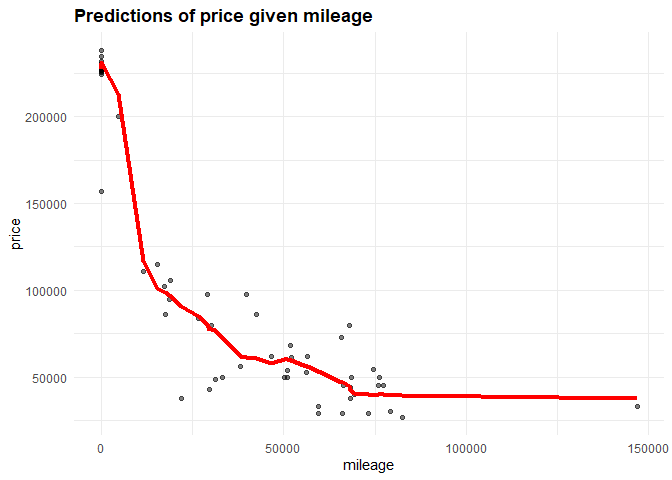
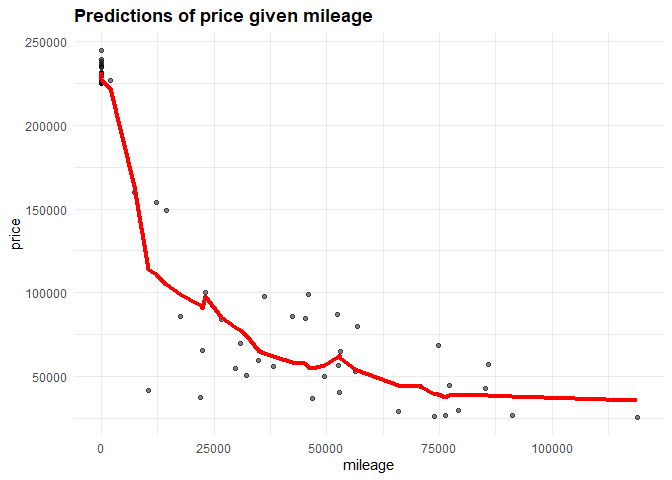
Exercise 11

diff --git a/Exercise 1/Chia-Sheng-Tu---Date-Mining---1.md b/Exercise 1/Chia-Sheng-Tu---Date-Mining---1.md
@@ -16,9 +16,17 @@ to minimize delays?\*\*
 
 ![](Chia-Sheng-Tu---Date-Mining---1_files/figure-markdown_strict/problem%201-1.png)
 
-    **Figure 1:** #Plot for average delay time per mile bt month
+**Figure 1:** \#Plot for average delay time per mile bt month
 
-    Figure 1 refers to the best months to fly in and fly out to  Austin to minimize delays are September and November. September has the lowest delay time per mile (0.009). On the Other hand, December would be the worst time to fly, since the average delay time per mile is the highst among 12 months (0.077). The results seems reasonible. The demnd of flights in September might decreas, as September is the second month of the semester for most students. However, many people, not only students, are flying in/out to Austin due to Christmas and new year hoildays, the demand of flights increased.
+Figure 1 refers to the best months to fly in and fly out to Austin to
+minimize delays are September and November. September has the lowest
+delay time per mile (0.009). On the Other hand, December would be the
+worst time to fly, since the average delay time per mile is the highst
+among 12 months (0.077). The results seems reasonible. The demnd of
+flights in September might decreas, as September is the second month of
+the semester for most students. However, many people, not only students,
+are flying in/out to Austin due to Christmas and new year hoildays, the
+demand of flights increased.
 
 ## 2) Wrangling the Olympics
 
@@ -62,6 +70,7 @@ Event Rowing Woman’s Coxed Fours has the highest standard deviation with
 #### C) How has the average age of Olympic swimmers changed over time? Does this trend look different depending on the gender?
 
 ![](Chia-Sheng-Tu---Date-Mining---1_files/figure-markdown_strict/problem%202C-1.png)![](Chia-Sheng-Tu---Date-Mining---1_files/figure-markdown_strict/problem%202C-2.png)
+
 **Figure 3&4:** Line graph showing the change in average age of Olympic
 swimmers between 1600 - 2016 How has the average age of Olympic swimmers
 changed over time? Compared to early 1900’s, the average age of Olympic
@@ -88,11 +97,11 @@ optimal value of K
 
 **Optimal value of K**
 
-    ## [1] 15
+    ## [1] 6
 
 **RMSE from the Optimal value of K**
 
-    ## [1] 9947.547
+    ## [1] 8485.511
 
 ![](Chia-Sheng-Tu---Date-Mining---1_files/figure-markdown_strict/problem%203_1.4-1.png)
 
@@ -109,13 +118,14 @@ optimal value of K
 
 **Optimal value of K**
 
-    ## [1] 35
+    ## [1] 23
 
 **RMSE from the Optimal value of K**
 
-    ## [1] 17656.6
+    ## [1] 20064.85
 
 ![](Chia-Sheng-Tu---Date-Mining---1_files/figure-markdown_strict/problem%203_2.4-1.png)
+
 **Figure 8:** Plot of the fitted model, predicted price and real price
 
 **Result: Trim 350 yields a larger optimal value of K**
